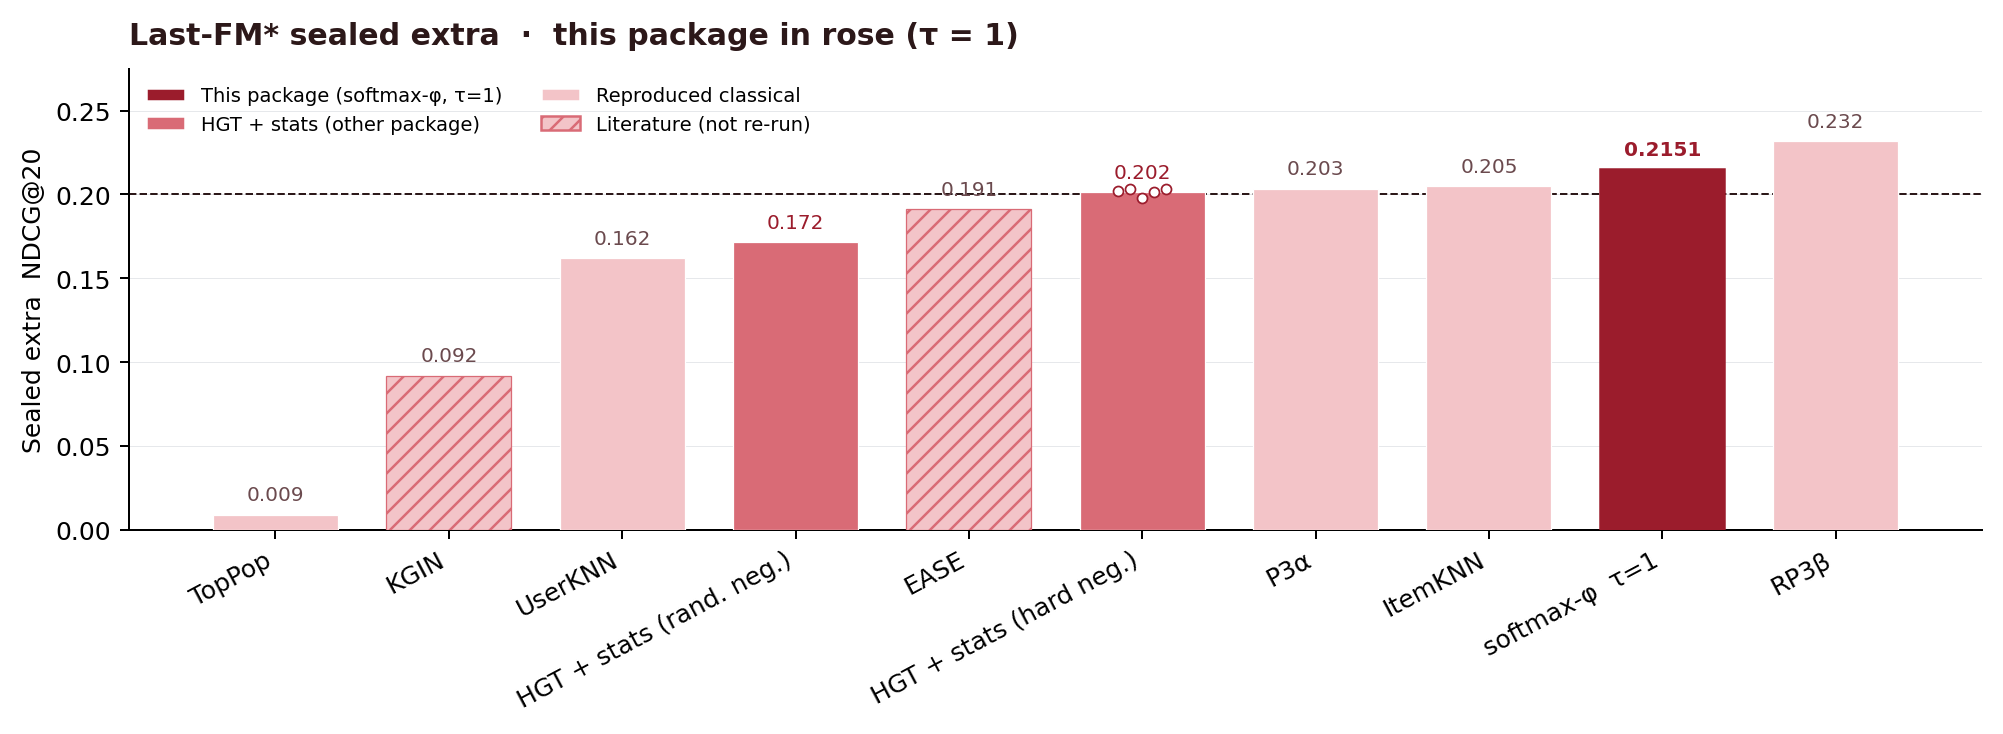
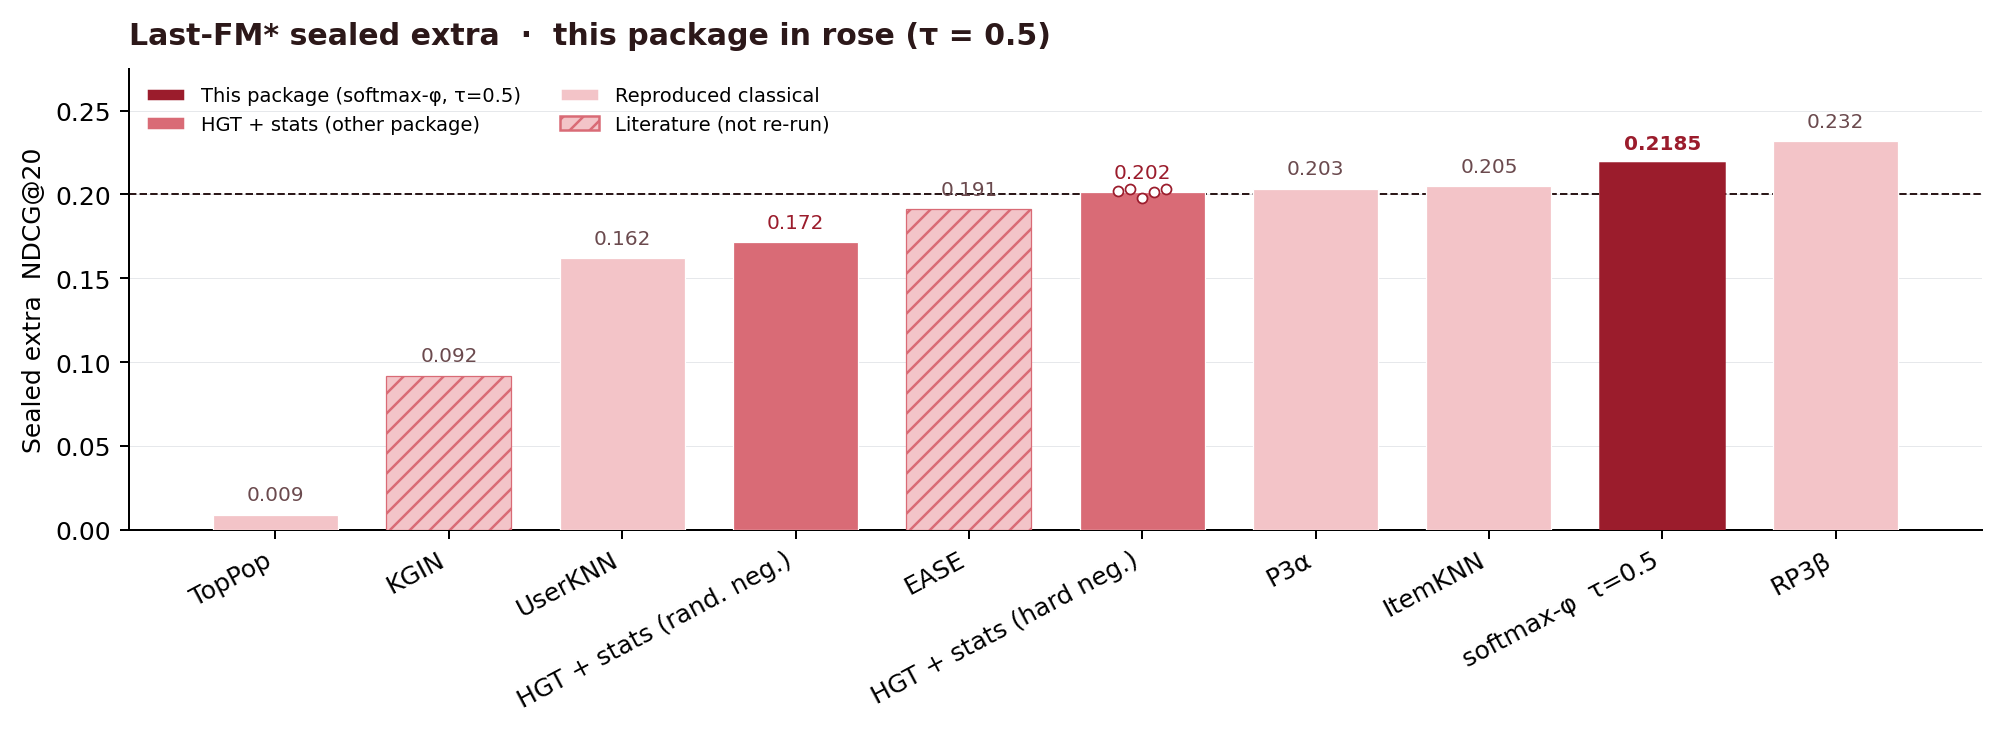
Show the sealed ranking at τ=0.5 (NDCG@20 = 0.2185) on the README.

diff --git a/scripts/make_readme_figures.py b/scripts/make_readme_figures.py
@@ -225,7 +225,7 @@ def fig_ranking() -> None:
         ("HGT + stats (hard neg.)", 0.2015, "ours"),
         ("P3α", 0.2035, "repro"),
         ("ItemKNN", 0.2051, "repro"),
-        ("softmax-φ  τ=1", 0.2151, "phi"),
+        ("softmax-φ  τ=0.5", 0.2185, "phi"),
         ("RP3β", 0.2318, "repro"),
     ]
     names = [r[0] for r in rows]
@@ -281,10 +281,10 @@ def fig_ranking() -> None:
     ax.set_ylabel("Sealed extra  NDCG@20")
     ax.yaxis.grid(True, lw=0.4, color=GRID, zorder=0)
     ax.set_axisbelow(True)
-    ax.set_title("Last-FM* sealed extra  ·  this package in rose (τ = 1)", loc="left", fontsize=12, fontweight="bold", color=INK, pad=10)
+    ax.set_title("Last-FM* sealed extra  ·  this package in rose (τ = 0.5)", loc="left", fontsize=12, fontweight="bold", color=INK, pad=10)
 
     handles = [
-        Patch(facecolor=ROSE_DARK, edgecolor=WHITE, label="This package (softmax-φ, τ=1)"),
+        Patch(facecolor=ROSE_DARK, edgecolor=WHITE, label="This package (softmax-φ, τ=0.5)"),
         Patch(facecolor=ROSE, edgecolor=WHITE, label="HGT + stats (other package)"),
         Patch(facecolor=ROSE_LIGHT, edgecolor=WHITE, label="Reproduced classical"),
         Patch(facecolor=ROSE_LIGHT, edgecolor=ROSE, hatch="///", label="Literature (not re-run)"),

diff --git a/README.md b/README.md
@@ -9,7 +9,7 @@
 </p>
 
 <p align="center">
-  <img src="docs/ranking.png" alt="Sealed extra NDCG@20 ranking. Softmax-weighted phi at tau=1 is 0.2151, second to RP3beta." width="920">
+  <img src="docs/ranking.png" alt="Sealed extra NDCG@20 ranking. Softmax-weighted phi at tau=0.5 is 0.2185, second to RP3beta." width="920">
 </p>
 
 Parameter-free follow-up from the thesis. UserKNN (k=200) retrieves
